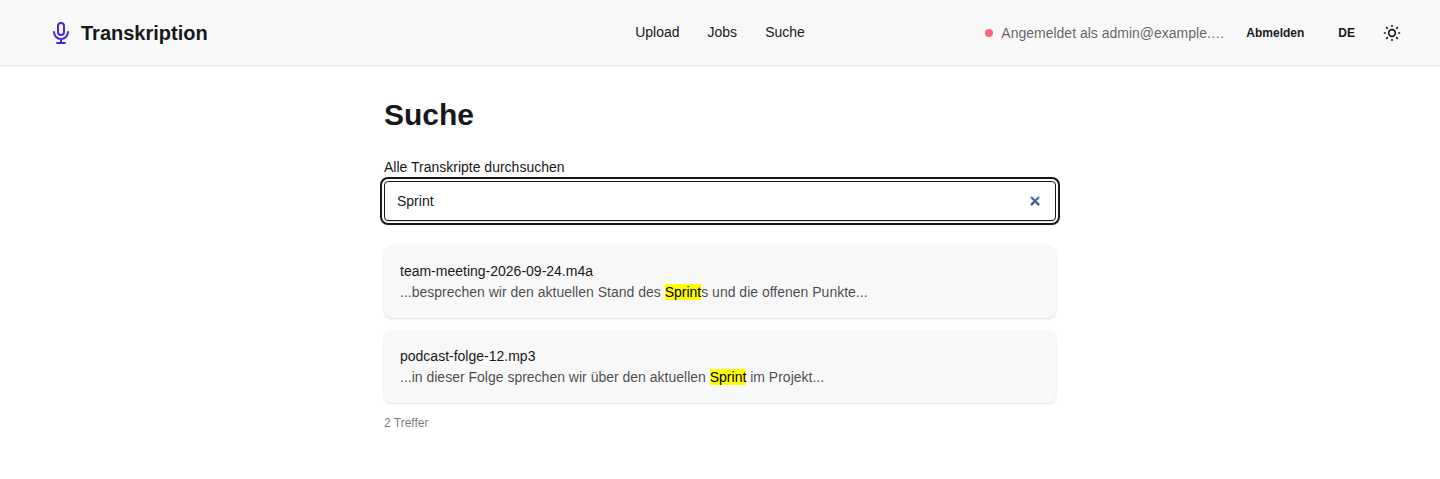
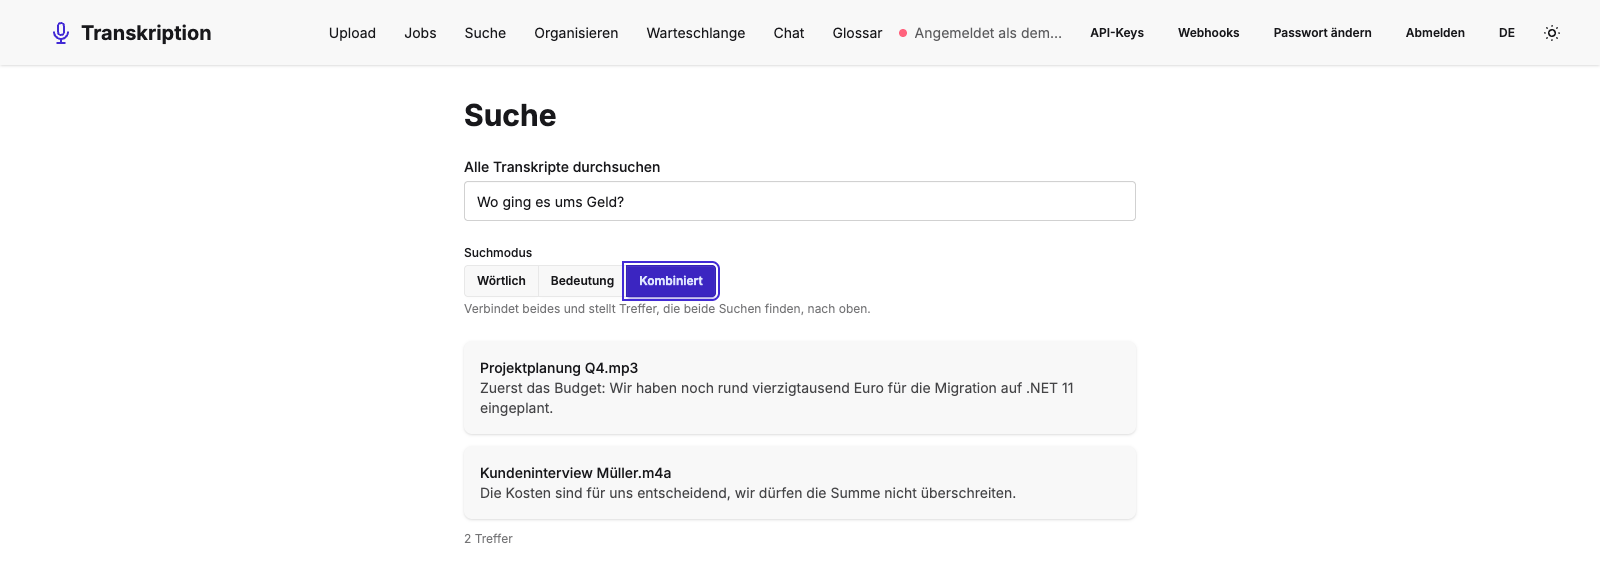
docs: update changelog and README with epic E-02 features and new screenshots
- changelog: add stories S18-S34 (PWA, RAG chat, semantic search, templates,
  chapters, tus upload, editor, queue, glossary, exports, organize,
  observability, retention, sharing, user admin), .NET 11 upgrade and tests
- readme: rebuild screenshot section, add chat, queue, API keys and
  webhooks screenshots, refresh existing ones, mention Qdrant and Ollama

diff --git a/CHANGELOG.md b/CHANGELOG.md
@@ -7,6 +7,21 @@ Das Format orientiert sich an [Keep a Changelog](https://keepachangelog.com/de/1
 ## [Unreleased]
 
 ### Hinzugefügt
+- **PWA und Offline-Aufnahme (S33):** App auf dem Handy installierbar (Manifest, Service Worker nur für die App-Shell, nie für API-Antworten); Aufnahmen werden abschnittsweise in IndexedDB gesichert, überstehen Absturz und geschlossenes Tab und werden bei Verbindung automatisch hochgeladen (Liste „Wartet auf Upload“). Entscheidungen in ADR 0012.
+- **Chat mit Transkripten / RAG (S24):** `POST /api/chat` beantwortet Fragen zu einer Aufnahme, einem Ordner oder allen Transkripten als Server-Sent-Events-Stream mit überprüfbaren Zitaten (Sprung in den Player), privaten Gesprächsverläufen, Rate-Limit und Anzeige, welches Modell antwortet und ob es ein externer Dienst ist. Transkripte gelten als untrusted Data (Schutz vor Prompt-Injection), Standard ist lokal über Ollama. Entscheidungen in ADR 0011.
+- **Semantische und kombinierte Suche (S23):** Suche nach Bedeutung über Embeddings in Qdrant (lokal `bge-m3` über Ollama, OpenAI nur per ausdrücklicher Konfiguration), Modi „Wörtlich“, „Bedeutung“ und „Kombiniert“ (Reciprocal Rank Fusion), serverseitig erzwungene Berechtigungen, Admin-Neuaufbau des Index (`/api/admin/search/*`). Qualität auf einem deutschen Evaluationsset gemessen und dokumentiert. Entscheidungen in ADR 0010.
+- **Protokoll-Vorlagen (S26):** Strukturierte Nachbearbeitung mit Vorlagen (Besprechungsprotokoll, Entscheidungsliste, Aufgaben mit Verantwortlichen), Ergebnis wird gegen ein JSON-Schema geprüft und als Markdown gerendert; eigene Vorlagen durch Admins.
+- **Automatische Kapitel (S25):** Das lokale Sprachmodell gliedert lange Aufnahmen in Kapitel mit Titel und Kurzzusammenfassung; Marker auf der Zeitleiste, Kapitelliste mit Sprung per Klick oder Tastatur, Kapitel umbenennen und löschen.
+- **Wiederaufnehmbarer Upload (S27):** Dateien ab 10 MiB werden per tus-Protokoll in Chunks hochgeladen (automatische Wiederholung, Pause/Fortsetzen, Aufräumen bei Abbruch); der bisherige Upload-Endpunkt bleibt unverändert.
+- **Transkript-Editor (S32):** Segmente lassen sich im Player korrigieren, jede Änderung ist eine neue Version mit Verlauf, Diff und Wiederherstellen; das Rohtranskript bleibt unverändert, Suche, Untertitel und Exporte nutzen die korrigierte Fassung.
+- **Batch-Upload und Warteschlange (S34):** Mehrere Dateien gleichzeitig hochladen (bis zu 3 parallel), Warteschlangen-Übersicht mit Position, geschätzter Wartezeit, Priorität und Abbrechen.
+- **Glossare (S22):** Eigene Begriffslisten, die Whisper als Initial-Prompt für Namen und Fachwörter erhält; zu lange Listen werden gemeldet statt still abgeschnitten.
+- **Weitere Exportformate (S21):** Transkript und Fassungen als Word (DOCX), Markdown, JSON und PDF, optional mit Zeitstempeln und Sprechernamen. Entscheidungen in ADR 0008.
+- **Tags, Ordner und Favoriten (S20):** Persönliche Organisation der Jobs (auch geteilter), Filter in Liste und Suche, Verwaltungsseite „Organisieren“.
+- **Observability (S29):** Fachliche Metriken (Jobs, Dauer, Echtzeitfaktor, Warteschlange), Traces der Pipeline und Readiness-Checks, optional mit Prometheus und Grafana; ohne Dateinamen oder Inhalte (siehe `docs/observability.md`).
+- **Aufbewahrungsfristen (S30):** Optionales automatisches Löschen von Jobs (`Retention:TranscriptDays`) bzw. nur der Audiodatei (`Retention:AudioDays`), Schutz einzelner Jobs durch den Eigentümer, Lösch-Protokoll ohne Dateinamen oder Inhalte.
+- **Jobs pro Benutzer und Freigabe (S19):** Jeder Benutzer sieht nur seine eigenen Jobs und die, die andere read-only mit ihm teilen (REST, SignalR und Suche serverseitig abgesichert). Entscheidungen in ADR 0007.
+- **Benutzerverwaltung (S18):** Admin-Oberfläche für Benutzer und Rollen sowie „Passwort ändern“ für angemeldete Benutzer.
 - **Automatisierung (S28):** API-Keys für Skripte (SHA-256-Hash, Scopes `jobs:read`/`jobs:write`, Ablauf, Rate-Limit), signierte Webhooks (`job.completed`/`job.failed`, HMAC-SHA256, Wiederholung mit Backoff, Zustellungsprotokoll, SSRF-Schutz), Ordner-Watch mit neustartsicherer Verarbeitung, Verwaltungsseiten „API-Keys“ und „Webhooks“ (DE/EN) und OpenAPI-Auth-Schemata. Entscheidungen in ADR 0009.
 - **Initialer Admin-Account:** `InitialUserSeeder` legt beim ersten Start optional einen Admin-Benutzer aus der Konfiguration an (`Auth:InitialUser:Email`/`Password`), inkl. automatischer `Admin`-Rolle.
 - **OpenAPI-Dokumentation (EN-3):** `GET /openapi/v1.json` liefert eine vollständige, maschinenlesbare Beschreibung aller Endpunkte.
@@ -24,6 +39,8 @@ Das Format orientiert sich an [Keep a Changelog](https://keepachangelog.com/de/1
 - **CI-Pipeline (S16):** GitHub-Actions-Workflow mit Backend-/Frontend-Tests, Repo-Hygiene-Check und HTML-Testreports.
 
 ### Geändert
+- **.NET 11 und Aspire 13.6.5:** Alle Projekte zielen auf `net11.0`; ASP.NET Core, EF Core und `Microsoft.Extensions.*` auf 11.0.0, Aspire-AppHost und -Pakete auf 13.6.5, Dockerfile-Basisimages und CI (`setup-dotnet`) auf 11.0.
+- **Dokumentation:** README um neue Screenshots (Chat, Warteschlange, API-Keys, Webhooks) erweitert und die bestehenden aktualisiert.
 - **Job-Wiederherstellung:** Offene Transkriptions-Jobs werden nach einem API-Neustart automatisch fortgesetzt.
 - **SignalR-Reconnect:** Das Frontend verbindet sich nach Verbindungsabbrüchen automatisch neu und synchronisiert den Job-Status.
 - **Roh- vs. bearbeitetes Transkript (S04):** Rohtranskript und nachbearbeitete Fassung werden getrennt gespeichert; das Frontend erlaubt das Umschalten zwischen Original und bearbeiteter Version.
@@ -39,6 +56,8 @@ Das Format orientiert sich an [Keep a Changelog](https://keepachangelog.com/de/1
 - **DE/EN i18n (via Transloco):** Frontend-Texte sind vollständig über Übersetzungsdateien gepflegt, keine hartkodierten sichtbaren Strings.
 
 ### Tests
+- **E2E-Kernflows mit gemockter API (S31):** Playwright-Specs (`*.mocked.spec.ts`) für Kernabläufe, Batch/Queue, Kapitel, Editor, tus-Upload und Offline-Aufnahme laufen nur mit dem Dev-Server und haben einen eigenen CI-Job.
+- **Stabilere Tests:** Der Admin-Herabstufungs-Test ist unabhängig vom Timing, und die Upload-Tests halten den Transkriptions-Worker heraus.
 - **Vitest-Unit-Tests (Web):** Frontend-Unit-Tests laufen über den Angular-Builder und sind in die CI integriert.
 - **E2E-Test Job-Lifecycle (S09):** End-to-End-Test gegen den laufenden Stack.
 

diff --git a/README.md b/README.md
@@ -38,17 +38,27 @@ Lade eine Audiodatei hoch, verfolge den Verarbeitungsstatus live über SignalR u
 
 ## 🖼 Screenshots
 
+Die Screenshots zeigen die Oberfläche mit Demo-Daten.
+
 | Anmeldung | Upload |
 |---|---|
-| ![Anmeldeseite](docs/screenshots/login.png) | ![Upload-Seite mit Modell-/Sprachauswahl](docs/screenshots/upload.png) |
+| ![Anmeldeseite](docs/screenshots/login.png) | ![Upload-Seite mit Modell-, Sprach- und Glossarauswahl](docs/screenshots/upload.png) |
 
-| Job-Übersicht | Job-Details mit Sprechern und Fassungen |
+| Job-Übersicht mit Tags, Favoriten und Fortschritt | Warteschlange |
 |---|---|
-| ![Liste der Transkriptions-Jobs](docs/screenshots/jobs.png) | ![Job-Detailansicht mit Transkript, Sprechererkennung und Zeitstempeln](docs/screenshots/job-detail.png) |
+| ![Liste der Transkriptions-Jobs mit Tags, Favoriten und Live-Fortschritt](docs/screenshots/jobs.png) | ![Warteschlange mit Position, Priorität und geschätzter Wartezeit](docs/screenshots/queue.png) |
 
-| Volltextsuche |
+| Job-Details mit Sprechern, Kapiteln, Fassungen und Zeitstempeln |
 |---|
-| ![Volltextsuche mit hervorgehobenen Treffern](docs/screenshots/search.png) |
+| ![Job-Detailansicht mit Transkript, Fassungen, Sprechererkennung, Kapiteln und Zeitstempeln](docs/screenshots/job-detail.png) |
+
+| Suche (Wörtlich, Bedeutung, Kombiniert) | Chat mit Transkripten |
+|---|---|
+| ![Kombinierte Volltext- und semantische Suche](docs/screenshots/search.png) | ![Chat mit überprüfbaren Zitaten und Sprung in den Player](docs/screenshots/chat.png) |
+
+| API-Keys | Webhooks |
+|---|---|
+| ![Verwaltung der API-Keys](docs/screenshots/api-keys.png) | ![Verwaltung der Webhooks](docs/screenshots/webhooks.png) |
 
 ## 🔐 Datenschutz
 
@@ -428,7 +438,7 @@ Alle Endpunkte außer Login erfordern eine Anmeldung, sonst antworten sie mit `4
 
 ## 🛠 Tech-Stack
 
-**Backend:** ASP.NET Core (.NET 11) · EF Core · SQL Server · SignalR · Whisper.net · ffmpeg · .NET Aspire
+**Backend:** ASP.NET Core (.NET 11) · EF Core · SQL Server · Qdrant · SignalR · Whisper.net · Ollama · ffmpeg · .NET Aspire
 **Frontend:** Angular 22 (zoneless, Standalone Components, Signals) · Tailwind CSS 4 · DaisyUI 5
 
 ## 📝 Changelog
